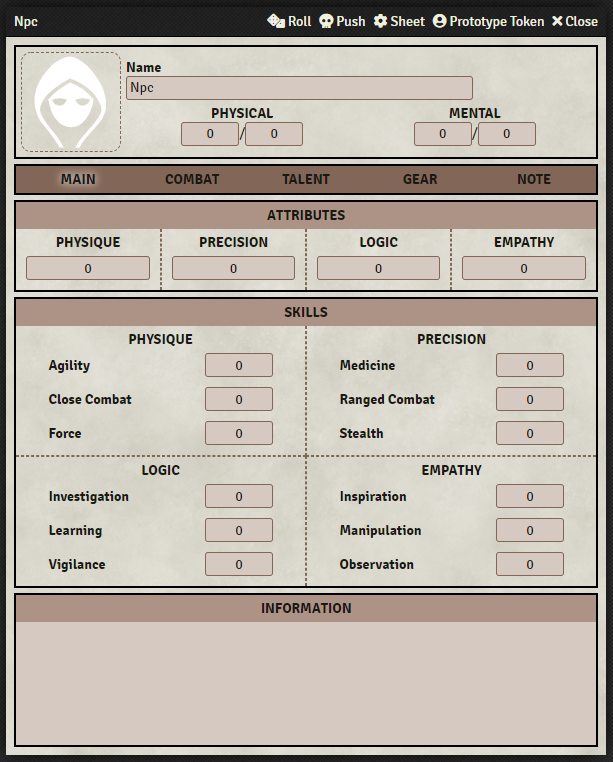
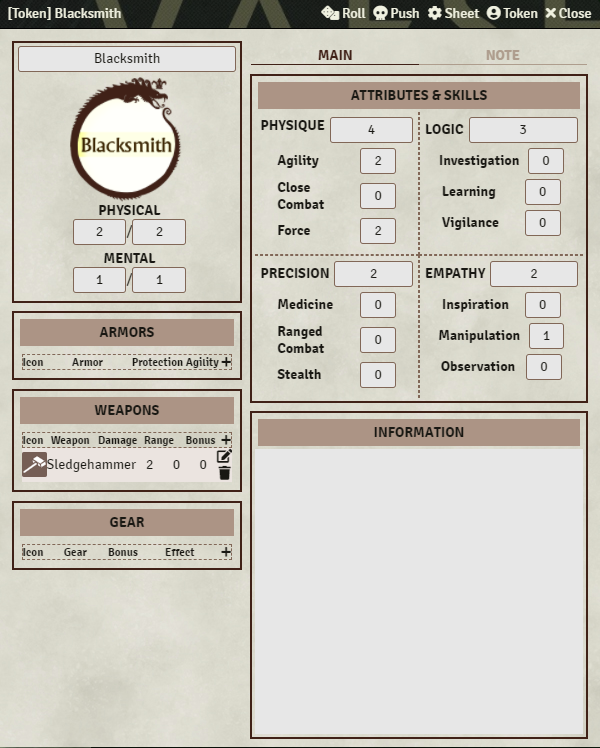
npc sheet redesign

diff --git a/model/npc.html b/model/npc.html
@@ -1,13 +1,14 @@
 <form class="{{cssClass}}" autocomplete="off">
-    <div class="npc flex column">
+    <div class="npc flex row">
+        <div class="right flex column">
         <div class="header flex column heavy-border">
-            <div class="flex row margin align-center">
-                <img class="profile-img" src="{{actor.img}}" data-edit="img" title="{{actor.name}}" height="100" width="100"/>
-                <div class="flex row grow wrap" style="margin-left: 5px">
-                    <div class="name" style="margin-bottom: 5px">
-                        <b>{{localize "BIO.NAME"}}</b>
-                        <input name="name" type="text" value="{{actor.name}}"/>
-                    </div>
+            <div class="name">
+                        
+                <input name="name" type="text" value="{{actor.name}}"/>
+            </div>
+                <img class="profile-img" src="{{actor.img}}" data-edit="img" title="{{actor.name}}" height="125" width="125"/>
+                <div class="flex column grow wrap" style="margin-left: 5px">
+                   
                     <div class="flex column physical align-center center">
                         <b>{{localize "CONDITION.PHYSICAL"}}</b>
                         <div class="flex row align-center" style="justify-content: center">
@@ -25,14 +26,101 @@
                         </div>
                     </div>
                 </div>
+           
+        </div>
+        <div class="flex column heavy-border wrapper">
+            <b class="title">{{localize "HEADER.ARMORS"}}</b>
+            <div class="armors flex column margin grow">
+                <div class="armor heading flex row center light-border">
+                    <b class="icon">{{localize "ARMOR.ICON"}}</b>
+                    <b class="name">{{localize "ARMOR.NAME"}}</b>
+                    <b class="protection">{{localize "ARMOR.PROTECTION"}}</b>
+                    <b class="agility">{{localize "ARMOR.AGILITY"}}</b>
+                    <a class="button item-create" title="Add Armor" data-type="armor"><i class="fas fa-plus"></i></a>
+                </div>
+                <div class="scrollable">
+                    {{#each data.items as |item|}}
+                        {{#if item.isArmor}}
+                            <div class="armor item flex row center align-center" data-item-id="{{item._id}}">
+                                <img class="icon" src="{{item.img}}" title="{{item.name}}" height="25" width="25"/>
+                                <div class="name">{{item.name}}</div>
+                                <div class="protection">{{item.data.protection}}</div>
+                                <div class="agility">{{item.data.agility}}</div>
+                                <div class="button">
+                                    <a class="item-control item-edit" title="Edit Armor"><i class="fas fa-edit"></i></a>
+                                    <a class="item-control item-delete" title="Delete Armor"><i class="fas fa-trash"></i></a>
+                                </div>
+                            </div>
+                        {{/if}}
+                    {{/each}}
+                </div>
             </div>
         </div>
-
+        <div class="flex column heavy-border wrapper">
+            <b class="title">{{localize "HEADER.WEAPONS"}}</b>
+            <div class="weapons flex column margin grow">
+                <div class="weapon heading flex row center light-border">
+                    <b class="icon">{{localize "WEAPON.ICON"}}</b>
+                    <b class="name">{{localize "WEAPON.NAME"}}</b>
+                    <b class="damage">{{localize "WEAPON.DAMAGE"}}</b>
+                    <b class="range">{{localize "WEAPON.RANGE"}}</b>
+                    <b class="bonus">{{localize "WEAPON.BONUS"}}</b>
+                    <a class="button item-create" title="Add Weapon" data-type="weapon"><i class="fas fa-plus"></i></a>
+                </div>
+                <div class="scrollable">
+                    {{#each data.items as |item|}}
+                        {{#if item.isWeapon}}
+                            <div class="weapon item flex row center align-center" data-item-id="{{item._id}}">
+                                <img class="icon" src="{{item.img}}" title="{{item.name}}" height="25" width="25"/>
+                                <div class="name">{{item.name}}</div>
+                                <div class="damage">{{item.data.damage}}</div>
+                                <div class="range">{{item.data.range}}</div>
+                                <div class="bonus">{{item.data.bonus}}</div>
+                                <div class="button">
+                                    <a class="item-control item-edit" title="Edit Weapon"><i class="fas fa-edit"></i></a>
+                                    <a class="item-control item-delete" title="Delete Weapon"><i class="fas fa-trash"></i></a>
+                                </div>
+                            </div>
+                        {{/if}}
+                    {{/each}}
+                </div>
+            </div>
+        </div>
+        <div class="flex column heavy-border wrapper">
+            <b class="title">{{localize "HEADER.GEAR"}}</b>
+            <div class="gears flex column margin grow">
+                <div class="gear heading flex row center light-border">
+                    <b class="icon">{{localize "GEAR.ICON"}}</b>
+                    <b class="name">{{localize "GEAR.NAME"}}</b>
+                    <b class="bonus">{{localize "GEAR.BONUS"}}</b>
+                    <b class="effect">{{localize "GEAR.EFFECT"}}</b>
+                    <a class="button item-create" title="Add Gear" data-type="gear"><i class="fas fa-plus"></i></a>
+                </div>
+                <div class="scrollable">
+                    {{#each data.items as |item|}}
+                        {{#if item.isGear}}
+                            <div class="gear item flex row center align-center" data-item-id="{{item._id}}">
+                                <img class="icon" src="{{item.img}}" title="{{item.name}}" height="25" width="25"/>
+                                <div class="name">{{item.name}}</div>
+                                <div class="bonus">{{item.data.bonus}}</div>
+                                <div class="effect">{{item.data.effect}}</div>
+                                <div class="button">
+                                    <a class="item-control item-edit" title="Edit Gear"><i class="fas fa-edit"></i></a>
+                                    <a class="item-control item-delete" title="Delete Gear"><i class="fas fa-trash"></i></a>
+                                </div>
+                            </div>
+                        {{/if}}
+                    {{/each}}
+                </div>
+            </div>
+        </div>
+    </div>
+        <div class=" flex column left">
         <div class="sheet-tabs tabs flex row" data-group="primary">
             <b class="item" data-tab="main">{{localize "TAB.MAIN"}}</b>
-            <b class="item" data-tab="combat">{{localize "TAB.COMBAT"}}</b>
-            <b class="item" data-tab="talent">{{localize "TAB.TALENT"}}</b>
-            <b class="item" data-tab="gear">{{localize "TAB.GEAR"}}</b>
+            
+            
+            
             <b class="item" data-tab="note">{{localize "TAB.NOTE"}}</b>
         </div>
 
@@ -40,18 +128,12 @@
             <div class="tab" data-group="primary" data-tab="main">
                 {{> systems/vaesen/model/tab/npc-main.html}}
             </div>
-            <div class="tab" data-group="primary" data-tab="combat">
-                {{> systems/vaesen/model/tab/npc-combat.html}}
-            </div>
-            <div class="tab" data-group="primary" data-tab="talent">
-                {{> systems/vaesen/model/tab/npc-talent.html}}
-            </div>
-            <div class="tab" data-group="primary" data-tab="gear">
-                {{> systems/vaesen/model/tab/npc-gear.html}}
-            </div>
+           
+            
             <div class="tab note" data-group="primary" data-tab="note">
                 {{> systems/vaesen/model/tab/npc-note.html}}
             </div>
         </div>
+    </div>
     </div>
 </form>

diff --git a/model/tab/npc-main.html b/model/tab/npc-main.html
@@ -1,35 +1,35 @@
 <div class="flex column full">
-    <div class="flex column heavy-border wrapper">
-        <b class="title">{{localize "HEADER.ATTRIBUTES"}}</b>
-        <div class="attributes flex row">
-            {{#each data.data.attribute as |attribute key|}}
-                <div class="attribute flex column center" data-key="{{key}}">
-                    <b>{{localize attribute.label}}</b>
-                    <div class="flex row align-center">
-                        <input name="data.attribute.{{key}}.value" type="text" value="{{attribute.value}}" data-dtype="Number"/>
-                    </div>
-                </div>
-            {{/each}}
-        </div>
-    </div>
-
-    <div class="flex column heavy-border wrapper">
-        <b class="title">{{localize "HEADER.SKILLS"}}</b>
+    <div class="flex column heavy-border">
+	
+        <b class="title">{{localize "HEADER.ATTRIBUTES"}} & {{localize "HEADER.SKILLS"}}</b>
+		
         <div class="flex row wrap">
             <div class="skills physique flex column">
-                <b class="header">{{localize "ATTRIBUTE.PHYSIQUE"}}</b>
-                {{#each data.data.skill as |skill key|}}
+				<div class="attribute flex row" data-key="physique">
+					<b>{{localize "ATTRIBUTE.PHYSIQUE"}}</b>			
+				<input name="data.attribute.physique.value" type="text" value="{{data.data.attribute.physique.value}}" data-dtype="Number"/>
+               
+				</div>
+				<div class="skill-group">
+				{{#each data.data.skill as |skill key|}}
                     {{#if skill.hasPhysique}}
                         <div class="skill flex row align-center" data-key="{{key}}">
                             <b>{{localize skill.label}}</b>
+							
                             <input name="data.skill.{{key}}.value" type="text" value="{{skill.value}}" data-dtype="Number"/>
-                        </div>
+							
+						</div>
                     {{/if}}
                 {{/each}}
+				</div>
             </div>
             <div class="skills logic flex column">
+				<div class="attribute flex row align-center" data-key="logic">
                 <b class="header">{{localize "ATTRIBUTE.LOGIC"}}</b>
-                {{#each data.data.skill as |skill key|}}
+				<input name="data.attribute.logic.value" type="text" value="{{data.data.attribute.logic.value}}" data-dtype="Number"/>
+                </div>
+				<div class="skill-group">
+				{{#each data.data.skill as |skill key|}}
                     {{#if skill.hasLogic}}
                         <div class="skill flex row align-center" data-key="{{key}}">
                             <b>{{localize skill.label}}</b>
@@ -37,20 +37,34 @@
                         </div>
                     {{/if}}
                 {{/each}}
+				</div>
             </div>
+		</div>
+	<div class="flex row wrap">
             <div class="skills precision flex column">
+                
+				<div class="attribute flex row align-center" data-key="precision">
                 <b class="header">{{localize "ATTRIBUTE.PRECISION"}}</b>
+				<input name="data.attribute.precision.value" type="text" value="{{data.data.attribute.precision.value}}" data-dtype="Number"/>
+                </div>
+				<div class="skill-group">
                 {{#each data.data.skill as |skill key|}}
                 {{#if skill.hasPrecision}}
+				
                 <div class="skill flex row align-center" data-key="{{key}}">
                     <b>{{localize skill.label}}</b>
                     <input name="data.skill.{{key}}.value" type="text" value="{{skill.value}}" data-dtype="Number"/>
                 </div>
                 {{/if}}
                 {{/each}}
+				</div>
             </div>
             <div class="skills empathy flex column">
+				<div class="attribute flex row align-center" data-key="empathy">
                 <b class="header">{{localize "ATTRIBUTE.EMPATHY"}}</b>
+				<input name="data.attribute.empathy.value" type="text" value="{{data.data.attribute.empathy.value}}" data-dtype="Number"/>
+                </div>
+                <div class="skill-group">
                 {{#each data.data.skill as |skill key|}}
                     {{#if skill.hasEmpathy}}
                         <div class="skill flex row align-center" data-key="{{key}}">
@@ -59,6 +73,7 @@
                         </div>
                     {{/if}}
                 {{/each}}
+				</div>
             </div>
         </div>
     </div>

diff --git a/style/npc.css b/style/npc.css
@@ -3,17 +3,30 @@
     width: 100%;
 }
 
+.vaesen .npc .right{
+    flex-basis: 35%;
+}
+
+.vaesen .npc .armors .heading,
+.vaesen .npc .weapons .heading,
+.vaesen .npc .gears .heading{
+    font-size: .8em;
+}
+.vaesen .npc .left{
+    flex-basis: 65%;
+}
 .vaesen .npc .header .profile-img {
-    border: 1px dashed #826657;
+    border: none;
     border-radius: 10px;
+    align-self: center;
 }
 
 .vaesen .npc .header .name {
-    flex-basis: 100%;
+    margin-bottom: 5px;
 }
 
 .vaesen .npc .header .physical {
-    flex-basis: 50%;
+    margin-bottom: 5px;
 }
 
 .vaesen .npc .header .physical input {
@@ -21,7 +34,7 @@
 }
 
 .vaesen .npc .header .mental {
-    flex-basis: 50%;
+    margin-bottom: 5px;
 }
 
 .vaesen .npc .header .mental input {

diff --git a/style/tab/npc-combat.css b/style/tab/npc-combat.css
@@ -1,6 +1,6 @@
 .vaesen .npc .critical-injuries .scrollable {
     overflow-y: auto;
-    height: 150px;
+    height: fit-content;
     max-height: 150px;
 }
 
@@ -50,7 +50,7 @@
 
 .vaesen .npc .weapons .scrollable {
     overflow-y: auto;
-    height: 157px;
+    height: fit-content;
     max-height: 157px;
 }
 
@@ -96,7 +96,7 @@
 
 .vaesen .npc .armors .scrollable {
     overflow-y: auto;
-    height: 50px;
+    height: fit-content;
     max-height: 50px;
 }
 

diff --git a/style/common.css b/style/common.css
@@ -19,6 +19,10 @@
     border: 1px dashed #826657;
 }
 
+.vaesen .name{
+    text-align: center;
+}
+
 .vaesen .flex {
     display: flex;
 }
@@ -96,6 +100,7 @@
 	text-shadow: none;
 	border-bottom: 1px solid #af9c8d;
 	color: #af9c8d;
+    flex-basis: 100%;
 	
 }
 

diff --git a/style/tab/npc-main.css b/style/tab/npc-main.css
@@ -80,6 +80,6 @@
 .vaesen .npc .information .editor-content {
     width: 100%;
     height: 100%;
-    max-height: 123px;
+    
     background-color: #e7e7e7;
 }

diff --git a/style/tab/npc-note.css b/style/tab/npc-note.css
@@ -10,6 +10,6 @@
 .vaesen .npc .note .editor-content {
     width: 100%;
     height: 100%;
-    max-height: 516px;
+    
     background-color: #e7e7e7;
 }

diff --git a/style/tab/npc-gear.css b/style/tab/npc-gear.css
@@ -1,6 +1,6 @@
 .vaesen .npc .gears .scrollable {
     overflow-y: auto;
-    height: 487px;
+    height: fit-content;
     max-height: 487px;
 }
 

diff --git a/README.md b/README.md
@@ -19,12 +19,11 @@ It provides support for **character sheets only**, game content should be drawn 
     * Add "to chat" icon on most items direct from sheet
     * Add Relationships Item box to Notes tab
      
-
 * Item Sheets etc.
     * clean-up layout
     * Add relationship Item Type
 
-* Vaesen and NPC sheets
+* Vaesen sheet
     * UX improvements
 
 * Dialogs and Chat
@@ -47,6 +46,9 @@ It provides support for **character sheets only**, game content should be drawn 
 [GNU General Public License v3.0](https://choosealicense.com/licenses/gpl-3.0/)
 
 ## Release Notes
+v2.1.5
+- Updated Layout of the NPC sheet - all relavant information is now on the main tab other tabs removed except the note tab which remains unchanged
+
 v2.1.4
 - Added roll dialog to the Recovery Rolls to allow for bonus dice from headquarters etc.
 - Removed Damage from results in chat on things which have no damage.
